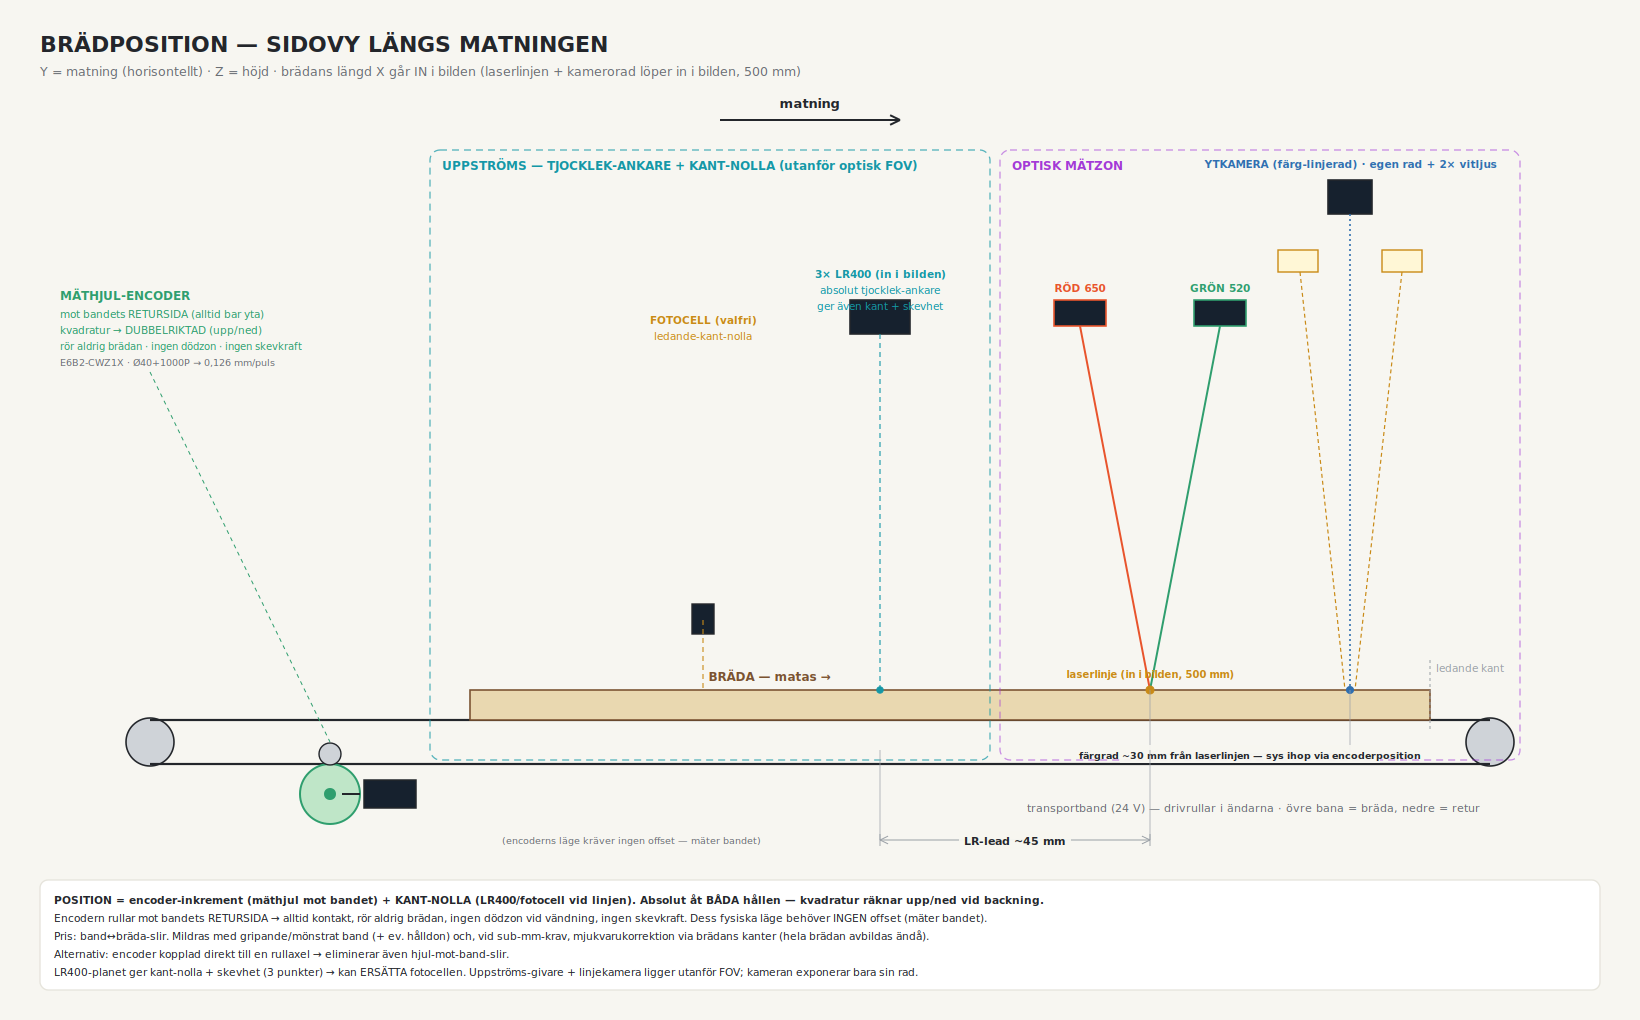
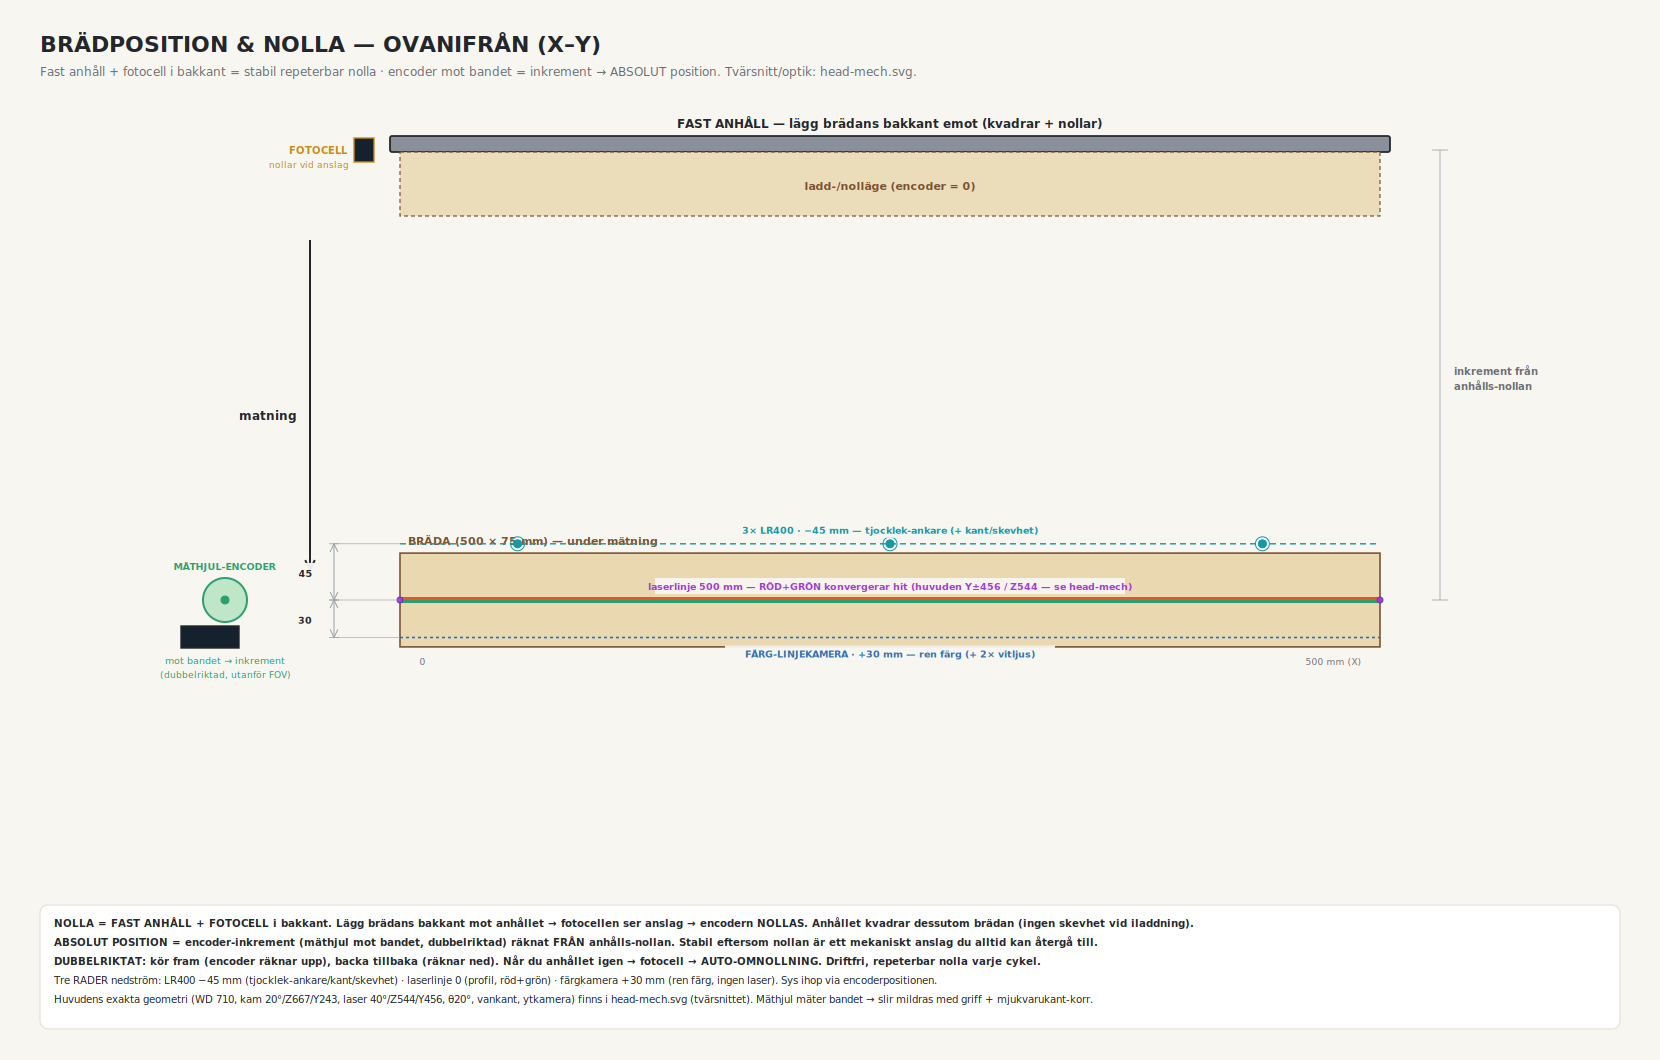
Positions-ritning v3: ovanifrån + FAST ANHÅLL/fotocell som stabil nolla
Omgjord till ovanifrån (X-Y), komplement till head-mech (tvärsnitt). Inför
användarens lösning: fast anhåll i bakkant + fotocell = repeterbar mekanisk nolla
(lägg an → nollas; backa till anhållet → auto-omnollning; anhållet kvadrar brädan).
Encoder mot bandet = inkrement → absolut position från anhålls-nollan, dubbelriktat.
Tre rader: LR400 −45 / laserlinje 0 (röd+grön) / färgkamera +30. Huvud-offset ±456
refereras till head-mech (inga stora fläkt-trianglar). Korrekta mått.

diff --git a/tools/draw_position_subsystem.py b/tools/draw_position_subsystem.py
@@ -1,162 +1,141 @@
 #!/usr/bin/env python3
-"""SCHEMA — brädposition: hur mäthjuls-encoder, fotocell och LR400 ger position,
-sett FRÅN SIDAN längs matningen (Y horisontellt, Z vertikalt; brädans längd X går
-in i bilden). Visar att positions-/ankargivarna sitter UPPSTRÖMS, utanför den
-optiska FOV:n, så de inte stör linjekamerans rad eller de oblika laserstrålarna.
+"""SCHEMA — brädposition & nolla, OVANIFRÅN (X–Y). Komplement till head-mech.svg
+(tvärsnittet, Y–Z). Visar: FAST ANHÅLL + fotocell i bakkant = stabil, repeterbar
+NOLLA (lägg brädan an → encodern nollas; backa till anhållet → auto-omnollning),
+encoder-mäthjul mot bandet = inkrement → ABSOLUT position, samt de tre raderna
+LR400 / laserlinje / färgkamera. Huvudens vinklar/höjder (WD 710, kam 20°/Z667/Y243,
+laser 40°/Z544/Y456, θ20°) finns i head-mech.svg.
 
   python tools/draw_position_subsystem.py   # -> position-subsystem.svg (+ .png)
 """
 from __future__ import annotations
 import os, math
 
+WD, CAM_A, LAS_A = 710.0, 20.0, 40.0
+camZ, camY = round(WD*math.cos(math.radians(CAM_A))), round(WD*math.sin(math.radians(CAM_A)))  # 667,243
+lasZ, lasY = round(WD*math.cos(math.radians(LAS_A))), round(WD*math.sin(math.radians(LAS_A)))  # 544,456
+BL, BWF = 500, 75
+LR_LEAD, COL_OFF = 45, 30
+LRX = (60, 250, 440)
+
 INK, MUTED, DIM = "#23262b", "#6a6e74", "#9aa0a6"
 PAPER, GRID = "#f7f6f1", "#e6e4dc"
-RED, GRN, BLUE, CY, AMB, PURP = "#e8542c", "#2f9e6e", "#2f6fb0", "#1597a6", "#c98a16", "#a23ad6"
-WOOD, BELT, ALU = "#e9d8b0", "#2b2f35", "#cfd3d8"
+RED, GRN, BLUE, CY, AMB, PURP, STEEL = "#e8542c", "#2f9e6e", "#2f6fb0", "#1597a6", "#c98a16", "#a23ad6", "#8a9099"
+WOOD = "#e9d8b0"
 SANS = "'IBM Plex Sans','DejaVu Sans',sans-serif"; MONO = "'IBM Plex Mono','DejaVu Sans Mono',monospace"
-W, H = 1640, 1020
+W, H = 1660, 1060
 out = [f'<svg xmlns="http://www.w3.org/2000/svg" width="{W}" height="{H}" viewBox="0 0 {W} {H}">']
 def add(s): out.append(s)
 def esc(t): return t.replace("&","&amp;").replace("<","&lt;").replace(">","&gt;")
-def txt(x,y,s,sz=12,a="start",f=INK,w=400,fam=SANS,rot=None):
-    tr=f' transform="rotate({rot} {x:.1f} {y:.1f})"' if rot is not None else ""
-    add(f'<text x="{x:.1f}" y="{y:.1f}" font-family="{fam}" font-size="{sz}" font-weight="{w}" fill="{f}" text-anchor="{a}"{tr}>{esc(s)}</text>')
+def txt(x,y,s,sz=12,a="start",f=INK,w=400,fam=SANS):
+    add(f'<text x="{x:.1f}" y="{y:.1f}" font-family="{fam}" font-size="{sz}" font-weight="{w}" fill="{f}" text-anchor="{a}">{esc(s)}</text>')
 def line(x1,y1,x2,y2,st=INK,w=1.4,dash=None,op=1):
     d=f' stroke-dasharray="{dash}"' if dash else ""
     add(f'<line x1="{x1:.1f}" y1="{y1:.1f}" x2="{x2:.1f}" y2="{y2:.1f}" stroke="{st}" stroke-width="{w}"{d} opacity="{op}"/>')
 def rect(x,y,w,h,fill="none",st=INK,sw=1.4,rx=0,dash=None,op=1):
     d=f' stroke-dasharray="{dash}"' if dash else ""
     add(f'<rect x="{x:.1f}" y="{y:.1f}" width="{w:.1f}" height="{h:.1f}" rx="{rx}" fill="{fill}" stroke="{st}" stroke-width="{sw}"{d} opacity="{op}"/>')
-def circ(x,y,r,fill="none",st=INK,sw=1.4,op=1):
-    add(f'<circle cx="{x:.1f}" cy="{y:.1f}" r="{r:.1f}" fill="{fill}" stroke="{st}" stroke-width="{sw}" opacity="{op}"/>')
-def poly(pts,fill="none",st=INK,sw=1.4,op=1):
-    p=" ".join(f"{x:.1f},{y:.1f}" for x,y in pts)
-    add(f'<polygon points="{p}" fill="{fill}" stroke="{st}" stroke-width="{sw}" opacity="{op}"/>')
+def circ(x,y,r,fill="none",st=INK,sw=1.4):
+    add(f'<circle cx="{x:.1f}" cy="{y:.1f}" r="{r:.1f}" fill="{fill}" stroke="{st}" stroke-width="{sw}"/>')
 def arrow(x1,y1,x2,y2,st=INK,w=1.6,head=9):
     line(x1,y1,x2,y2,st,w); a=math.atan2(y2-y1,x2-x1)
     for s in (0.45,-0.45): line(x2,y2,x2-head*math.cos(a-s),y2-head*math.sin(a-s),st,w)
-def beam(x1,y1,x2,y2,col): line(x1,y1,x2,y2,col,1.3,dash="5 4",op=0.85)
 
 add(f'<rect width="{W}" height="{H}" fill="{PAPER}"/>')
-# rubrik
-txt(40, 52, "BRÄDPOSITION — SIDOVY LÄNGS MATNINGEN", 22, "start", INK, 700)
-txt(40, 76, "Y = matning (horisontellt) · Z = höjd · brädans längd X går IN i bilden (laserlinjen + kamerorad löper in i bilden, 500 mm)", 12.5, "start", MUTED)
+txt(40,52,"BRÄDPOSITION & NOLLA — OVANIFRÅN (X–Y)",22,"start",INK,700)
+txt(40,76,"Fast anhåll + fotocell i bakkant = stabil repeterbar nolla · encoder mot bandet = inkrement → ABSOLUT position. Tvärsnitt/optik: head-mech.svg.",12,"start",MUTED)
 
-BELT_Y = 720
-BT = 30                         # bräd-tjocklek i px (~20 mm)
-BOARD_L, BOARD_R = 470, 1430    # brädans utbredning (75 mm bredd — schematiskt utdraget)
-# transportband
-circ(150, BELT_Y+22, 24, ALU, INK, 1.6); circ(1490, BELT_Y+22, 24, ALU, INK, 1.6)
-line(150, BELT_Y, 1490, BELT_Y, INK, 2.2)
-line(150, BELT_Y+44, 1490, BELT_Y+44, INK, 2.2)
-txt(1480, BELT_Y+92, "transportband (24 V) — drivrullar i ändarna · övre bana = bräda, nedre = retur", 11, "end", MUTED)
-# bräda
-rect(BOARD_L, BELT_Y-BT, BOARD_R-BOARD_L, BT, WOOD, "#7a5230", 1.6)
-txt(770, BELT_Y-BT-9, "BRÄDA — matas →", 12, "middle", "#7a5230", 700)
-arrow(720, 120, 900, 120, INK, 2, 11); txt(810, 108, "matning", 13, "middle", INK, 700)
-# ledande kant
-line(BOARD_R, BELT_Y-BT-30, BOARD_R, BELT_Y+10, DIM, 1, dash="3 3")
-txt(BOARD_R+6, BELT_Y-BT-18, "ledande kant", 10.5, "start", DIM)
+X0, SX = 400, 1.96
+def PX(x): return X0 + x*SX                        # längd X (0..500)
+YC = 600                                           # laserlinjen (machine Y=0)
+SY = 1.25
+def PY(ymm): return YC + ymm*SY                    # +Y nedström (matning ↓)
+bx0, bx1 = PX(0), PX(BL)
 
-def station_label(x, top, lines, col=INK):
-    for i,(t,w) in enumerate(lines):
-        txt(x, top+i*16, t, 10.5, "middle", col, w)
+# ---- FAST ANHÅLL + fotocell (bakkant, uppströms) = ladd-/nolläge ----
+yan = 150
+rect(bx0-10, yan-14, (bx1-bx0)+20, 16, STEEL, INK, 1.8, 2)        # anhåll-balk längs X
+txt(PX(BL/2), yan-22, "FAST ANHÅLL — lägg brädans bakkant emot (kvadrar + nollar)", 12, "middle", INK, 700)
+# brädan i ladd-/nolläge (ligger an mot anhållet)
+rect(bx0, yan+2, bx1-bx0, 64, WOOD, "#7a5230", 1.4, 0, dash="4 3", op=0.85)
+txt(PX(BL/2), yan+40, "ladd-/nolläge (encoder = 0)", 11, "middle", "#7a5230", 700)
+# fotocell vid anhållet
+rect(bx0-46, yan-12, 20, 24, "#16212e", AMB, 1.4)
+txt(bx0-52, yan+4, "FOTOCELL", 10, "end", AMB, 700)
+txt(bx0-52, yan+18, "nollar vid anslag", 9, "end", AMB)
 
-# ---- UPPSTRÖMS POSITIONS-/ANKARGIVARE (vänster, utanför FOV) ----
-zoneU = (430, 150, 560, 760)
-rect(zoneU[0], zoneU[1], zoneU[2], zoneU[3]-zoneU[1], "none", CY, 1.3, rx=10, dash="7 5", op=0.7)
-txt(zoneU[0]+12, zoneU[1]+20, "UPPSTRÖMS — TJOCKLEK-ANKARE + KANT-NOLLA (utanför optisk FOV)", 12, "start", CY, 700)
+# feed
+arrow(bx0-90, yan+90, bx0-90, YC-30, INK, 2, 11)
+txt(bx0-104, (yan+90+YC)/2, "matning", 12, "end", INK, 700)
+# nolloffset-mått anhåll → laserlinje
+line(bx1+60, yan, bx1+60, YC, DIM, 0.8)
+line(bx1+52, yan, bx1+68, yan, DIM, 0.8); line(bx1+52, YC, bx1+68, YC, DIM, 0.8)
+txt(bx1+74, (yan+YC)/2, "inkrement från", 10, "start", MUTED, 700)
+txt(bx1+74, (yan+YC)/2+15, "anhålls-nollan", 10, "start", MUTED, 700)
 
-# 1) Mäthjuls-encoder MOT BANDETS RETURSIDA (bar yta, utanför FOV, dubbelriktad)
-ex = 330
-ret = BELT_Y + 44                                  # nedre (retur) bandbana
-circ(ex, ret+30, 30, "#bfe6c8", GRN, 2)            # mäthjul under returbandet
-circ(ex, ret+30, 5, GRN, GRN, 2)
-circ(ex, ret-10, 11, ALU, INK, 1.4)                # backidler som håller bandet mot hjulet
-rect(ex+34, ret+16, 52, 28, "#16212e", INK, 1.5)   # encoderkropp
-line(ex+30, ret+30, ex+12, ret+30, INK, 2)         # nav → kropp
-txt(60, 300, "MÄTHJUL-ENCODER", 12, "start", GRN, 700)
-txt(60, 318, "mot bandets RETURSIDA (alltid bar yta)", 10.5, "start", GRN)
-txt(60, 334, "kvadratur → DUBBELRIKTAD (upp/ned)", 10.5, "start", GRN)
-txt(60, 350, "rör aldrig brädan · ingen dödzon · ingen skevkraft", 10, "start", GRN)
-txt(60, 366, "E6B2-CWZ1X · Ø40+1000P → 0,126 mm/puls", 9.5, "start", MUTED)
-line(150, 372, ex, ret-22, GRN, 1, dash="4 4")     # ledare till hjulet
-# 2) Fotocell (valfri)
-px = 700
-rect(px-8, BELT_Y-BT-86, 22, 30, "#16212e", INK, 1.4)
-beam(px+3, BELT_Y-BT-70, px+3, BELT_Y-BT, AMB)
-station_label(px+3, 250+74, [("FOTOCELL (valfri)",700),("ledande-kant-nolla",400)], AMB)
-# 3) LR400 ankare
-lx = 880
-rect(lx-30, 150+150, 60, 34, "#16212e", INK, 1.6)
-beam(lx, 150+184, lx, BELT_Y-BT, CY)
-circ(lx, BELT_Y-BT, 3.2, CY, CY, 1)
-station_label(lx, 150+128, [("3× LR400 (in i bilden)",700),("absolut tjocklek-ankare",400),
-                            ("ger även kant + skevhet",400)], CY)
+# ---- mätstationen: bräda mid-scan på laserlinjen ----
+by0, by1 = PY(-BWF/2), PY(BWF/2)
+rect(bx0, by0, bx1-bx0, by1-by0, WOOD, "#7a5230", 1.6)
+txt(bx0+8, by0-8, "BRÄDA (500 × 75 mm) — under mätning", 11, "start", "#7a5230", 700)
 
-# ---- OPTISK MÄTZON (höger) ----
-zoneO = (1000, 150, 520, 760)
-rect(zoneO[0], zoneO[1], zoneO[2], zoneO[3]-zoneO[1], "none", PURP, 1.3, rx=10, dash="7 5", op=0.55)
-txt(zoneO[0]+12, zoneO[1]+20, "OPTISK MÄTZON", 12, "start", PURP, 700)
-laser_x = 1150
-# dubbel-oblik laser: RÖD uppströms-sida, GRÖN nedströms-sida, samma linje
-rx_, gx_ = laser_x-70, laser_x+70
-rrect = (rx_-26, 300, 52, 26); grect = (gx_-26, 300, 52, 26)
-rect(*rrect, "#16212e", RED, 1.6); rect(*grect, "#16212e", GRN, 1.6)
-line(rx_, 326, laser_x, BELT_Y-BT, RED, 2)
-line(gx_, 326, laser_x, BELT_Y-BT, GRN, 2)
-circ(laser_x, BELT_Y-BT, 4, AMB, AMB, 1)               # laserlinjen (in i bilden)
-txt(rx_, 292, "RÖD 650", 10.5, "middle", RED, 700)
-txt(gx_, 292, "GRÖN 520", 10.5, "middle", GRN, 700)
-txt(laser_x, BELT_Y-BT-12, "laserlinje (in i bilden, 500 mm)", 10, "middle", AMB, 700)
-# ytkamera (FÄRG-linjekamera) — EGEN rad, förskjuten ~30 mm nedström, klar av laser-vinkeln
-sx = laser_x + 200
-rect(sx-22, 180, 44, 34, "#16212e", INK, 1.6)
-line(sx, 214, sx, BELT_Y-BT, BLUE, 1.6, dash="2 3")
-circ(sx, BELT_Y-BT, 3.5, BLUE, BLUE, 1)
-rect(sx-72, 250, 40, 22, "#fff7d6", AMB, 1.4); rect(sx+32, 250, 40, 22, "#fff7d6", AMB, 1.4)
-line(sx-50, 272, sx-5, BELT_Y-BT, AMB, 1.2, dash="4 3"); line(sx+52, 272, sx+5, BELT_Y-BT, AMB, 1.2, dash="4 3")
-txt(sx, 168, "YTKAMERA (färg-linjerad) · egen rad + 2× vitljus", 10.5, "middle", BLUE, 700)
-# offset laserlinje → färgrad (ingen laser i färgbilden; syns aldrig krock med laser-vinkeln)
-oy = BELT_Y + 34
-line(laser_x, BELT_Y-BT, laser_x, oy+6, DIM, 0.7); line(sx, BELT_Y-BT, sx, oy+6, DIM, 0.7)
-arrow((laser_x+sx)/2, oy, laser_x, oy, DIM, 1); arrow((laser_x+sx)/2, oy, sx, oy, DIM, 1)
-rect((laser_x+sx)/2-130, oy-9, 260, 18, PAPER, "none", 0, op=0.95)
-txt((laser_x+sx)/2, oy+5, "färgrad ~30 mm från laserlinjen — sys ihop via encoderposition", 9.5, "middle", INK, 700, MONO)
+# laserlinje (röd+grön) längs X — huvuden konvergerar hit (offset i head-mech)
+line(bx0, YC-1.5, bx1, YC-1.5, RED, 3); line(bx0, YC+1.5, bx1, YC+1.5, GRN, 3)
+for x in (0, BL): circ(PX(x), YC, 3, PURP, "#7a2fb0", 1)
+rect(PX(BL/2)-235, YC-22, 470, 16, PAPER, "none", 0, op=0.95)
+txt(PX(BL/2), YC-10, "laserlinje 500 mm — RÖD+GRÖN konvergerar hit (huvuden Y±456 / Z544 — se head-mech)", 9.5, "middle", PURP, 700)
 
-# offset-mått (Y) mellan givare och laserlinjen
-ydim = BELT_Y+120
-def hd(x1,x2,lbl):
-    line(x1,ydim-6,x1,ydim+6,DIM,0.9); line(x2,ydim-6,x2,ydim+6,DIM,0.9)
-    arrow((x1+x2)/2,ydim,x1,ydim,DIM,1); arrow((x1+x2)/2,ydim,x2,ydim,DIM,1)
-    rect((x1+x2)/2-len(lbl)*4, ydim-9, len(lbl)*8, 18, PAPER, "none", 0, op=0.95)
-    txt((x1+x2)/2, ydim+5, lbl, 11, "middle", INK, 700, MONO)
-line(lx, BELT_Y+30, lx, ydim, DIM, 0.7); line(laser_x, BELT_Y+30, laser_x, ydim, DIM, 0.7)
-hd(lx, laser_x, "LR-lead ~45 mm")
-txt(lx-120, ydim+4, "(encoderns läge kräver ingen offset — mäter bandet)", 9.5, "end", MUTED)
+# LR400-rad (−45 mm)
+ylr = PY(-LR_LEAD)
+line(bx0, ylr, bx1, ylr, CY, 1.4, dash="6 4")
+for x in LRX: circ(PX(x), ylr, 4, CY, CY, 1); circ(PX(x), ylr, 7, "none", CY, 1)
+rect(PX(BL/2)-175, ylr-21, 350, 15, PAPER, "none", 0, op=0.95)
+txt(PX(BL/2), ylr-10, "3× LR400 · −45 mm — tjocklek-ankare (+ kant/skevhet)", 9.5, "middle", CY, 700)
+
+# färg-linjekamera (+30 mm)
+ycol = PY(COL_OFF)
+line(bx0, ycol, bx1, ycol, BLUE, 1.6, dash="3 3")
+rect(PX(BL/2)-165, ycol+8, 330, 15, PAPER, "none", 0, op=0.95)
+txt(PX(BL/2), ycol+20, "FÄRG-LINJEKAMERA · +30 mm — ren färg (+ 2× vitljus)", 9.5, "middle", BLUE, 700)
+
+# encoder-mäthjul mot bandet (inkrement)
+ex = bx0-175
+circ(ex, YC, 22, "#bfe6c8", GRN, 2); circ(ex, YC, 4, GRN, GRN, 1)
+rect(ex-44, YC+26, 58, 22, "#16212e", INK, 1.4)
+txt(ex, YC-30, "MÄTHJUL-ENCODER", 9.5, "middle", GRN, 700)
+txt(ex, YC+64, "mot bandet → inkrement", 9.5, "middle", GRN)
+txt(ex, YC+78, "(dubbelriktad, utanför FOV)", 9, "middle", GRN)
+
+# offset-mått i feed (LR-lead 45 / färg 30)
+xd = bx0-66
+line(xd, ylr, bx0, ylr, DIM, 0.6); line(xd, YC, bx0, YC, DIM, 0.6); line(xd, ycol, bx0, ycol, DIM, 0.6)
+def vd(y1,y2,lbl):
+    arrow(xd,(y1+y2)/2,xd,y1,DIM,1); arrow(xd,(y1+y2)/2,xd,y2,DIM,1)
+    line(xd-5,y1,xd+5,y1,DIM,0.8); line(xd-5,y2,xd+5,y2,DIM,0.8)
+    rect(xd-52,(y1+y2)/2-9,46,18,PAPER,"none",0,op=0.95); txt(xd-29,(y1+y2)/2+5,lbl,9.5,"middle",INK,700,MONO)
+vd(ylr, YC, "45"); vd(YC, ycol, "30")
+txt(PX(10), by1+18, "0", 9, "start", MUTED); txt(PX(BL-10), by1+18, "500 mm (X)", 9, "end", MUTED)
 
 # noter
-nx, ny = 40, 880
-rect(nx, ny, W-80, 110, "#fff", GRID, 1.4, rx=8)
+nx, ny = 40, 905
+rect(nx, ny, W-80, 124, "#fff", GRID, 1.4, rx=8)
 notes = [
- "POSITION = encoder-inkrement (mäthjul mot bandet)  +  KANT-NOLLA (LR400/fotocell vid linjen).   Absolut åt BÅDA hållen — kvadratur räknar upp/ned vid backning.",
- "Encodern rullar mot bandets RETURSIDA → alltid kontakt, rör aldrig brädan, ingen dödzon vid vändning, ingen skevkraft. Dess fysiska läge behöver INGEN offset (mäter bandet).",
- "Pris: band↔bräda-slir. Mildras med gripande/mönstrat band (+ ev. hålldon) och, vid sub-mm-krav, mjukvarukorrektion via brädans kanter (hela brädan avbildas ändå).",
- "Alternativ: encoder kopplad direkt till en rullaxel → eliminerar även hjul-mot-band-slir.",
- "LR400-planet ger kant-nolla + skevhet (3 punkter) → kan ERSÄTTA fotocellen. Uppströms-givare + linjekamera ligger utanför FOV; kameran exponerar bara sin rad.",
+ "NOLLA = FAST ANHÅLL + FOTOCELL i bakkant. Lägg brädans bakkant mot anhållet → fotocellen ser anslag → encodern NOLLAS. Anhållet kvadrar dessutom brädan (ingen skevhet vid iladdning).",
+ "ABSOLUT POSITION = encoder-inkrement (mäthjul mot bandet, dubbelriktad) räknat FRÅN anhålls-nollan. Stabil eftersom nollan är ett mekaniskt anslag du alltid kan återgå till.",
+ "DUBBELRIKTAT: kör fram (encoder räknar upp), backa tillbaka (räknar ned). Når du anhållet igen → fotocell → AUTO-OMNOLLNING. Driftfri, repeterbar nolla varje cykel.",
+ "Tre RADER nedström: LR400 −45 mm (tjocklek-ankare/kant/skevhet) · laserlinje 0 (profil, röd+grön) · färgkamera +30 mm (ren färg, ingen laser). Sys ihop via encoderpositionen.",
+ "Huvudens exakta geometri (WD 710, kam 20°/Z667/Y243, laser 40°/Z544/Y456, θ20°, vankant, ytkamera) finns i head-mech.svg (tvärsnittet). Mäthjul mäter bandet → slir mildras med griff + mjukvarukant-korr.",
 ]
 for i,l in enumerate(notes):
-    txt(nx+14, ny+24+i*18, l, 10.6, "start", INK, 700 if i==0 else 400)
+    txt(nx+14, ny+22+i*19, l, 10.2, "start", INK, 700 if i<3 else 400)
 
 add('</svg>')
 svg = "\n".join(out)
 root = os.path.dirname(os.path.dirname(os.path.abspath(__file__)))
-dst = os.path.join(root, "position-subsystem.svg")
-open(dst, "w", encoding="utf-8").write(svg)
-print("skrev", dst)
+open(os.path.join(root,"position-subsystem.svg"),"w",encoding="utf-8").write(svg)
+print("skrev position-subsystem.svg")
 try:
     import cairosvg
-    cairosvg.svg2png(bytestring=svg.encode(), write_to=os.path.join(root, "position-subsystem.png"), output_width=W, output_height=H)
+    cairosvg.svg2png(bytestring=svg.encode(), write_to=os.path.join(root,"position-subsystem.png"), output_width=W, output_height=H)
     print("skrev position-subsystem.png")
 except Exception as e:
     print("PNG-render hoppover:", e)
